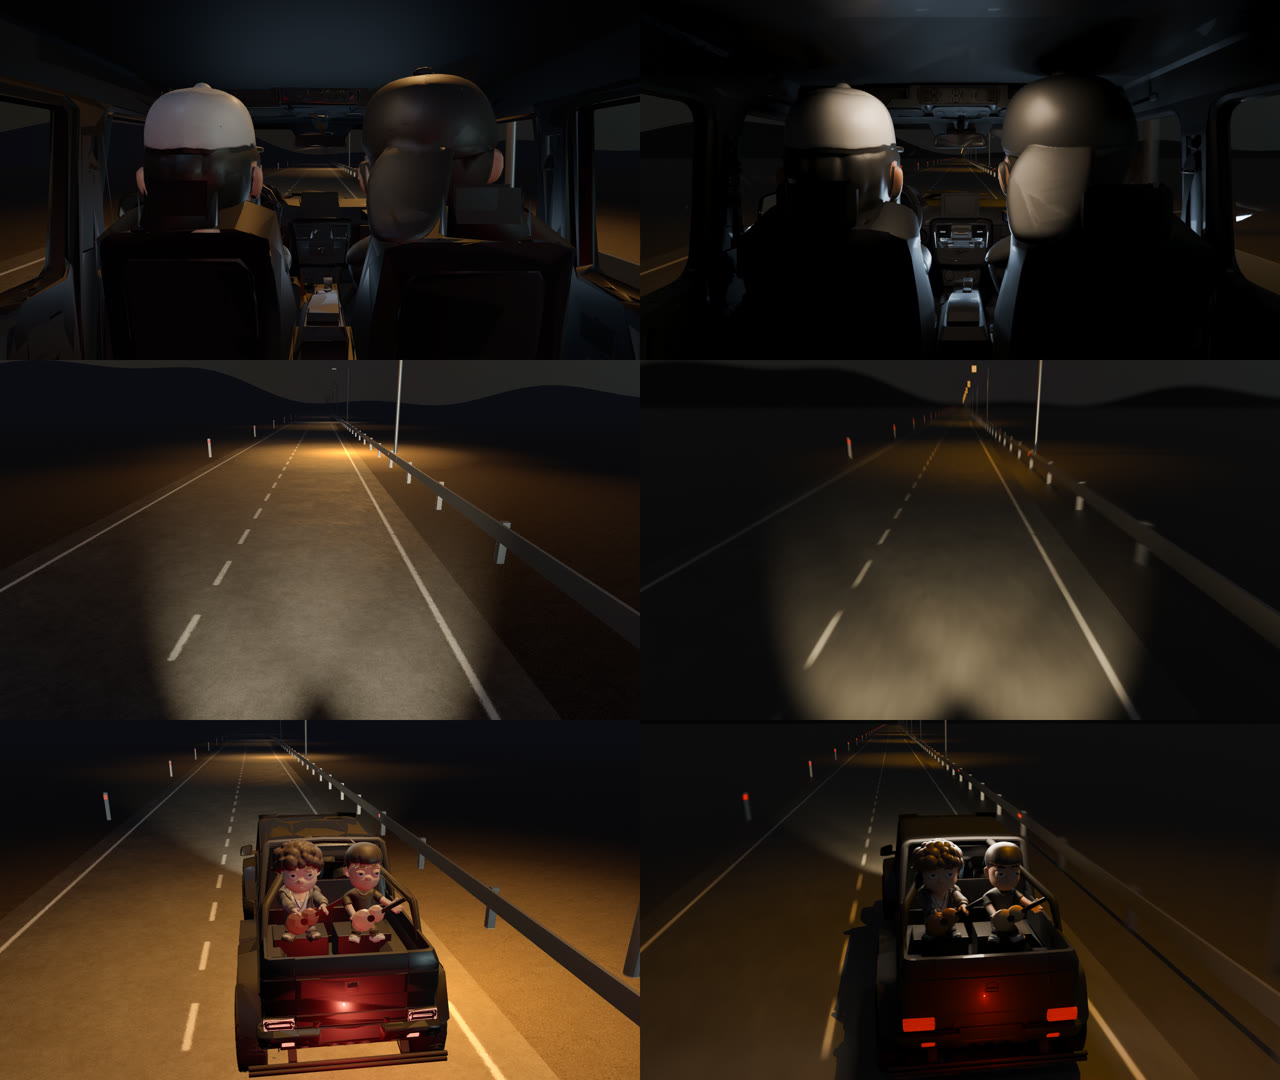
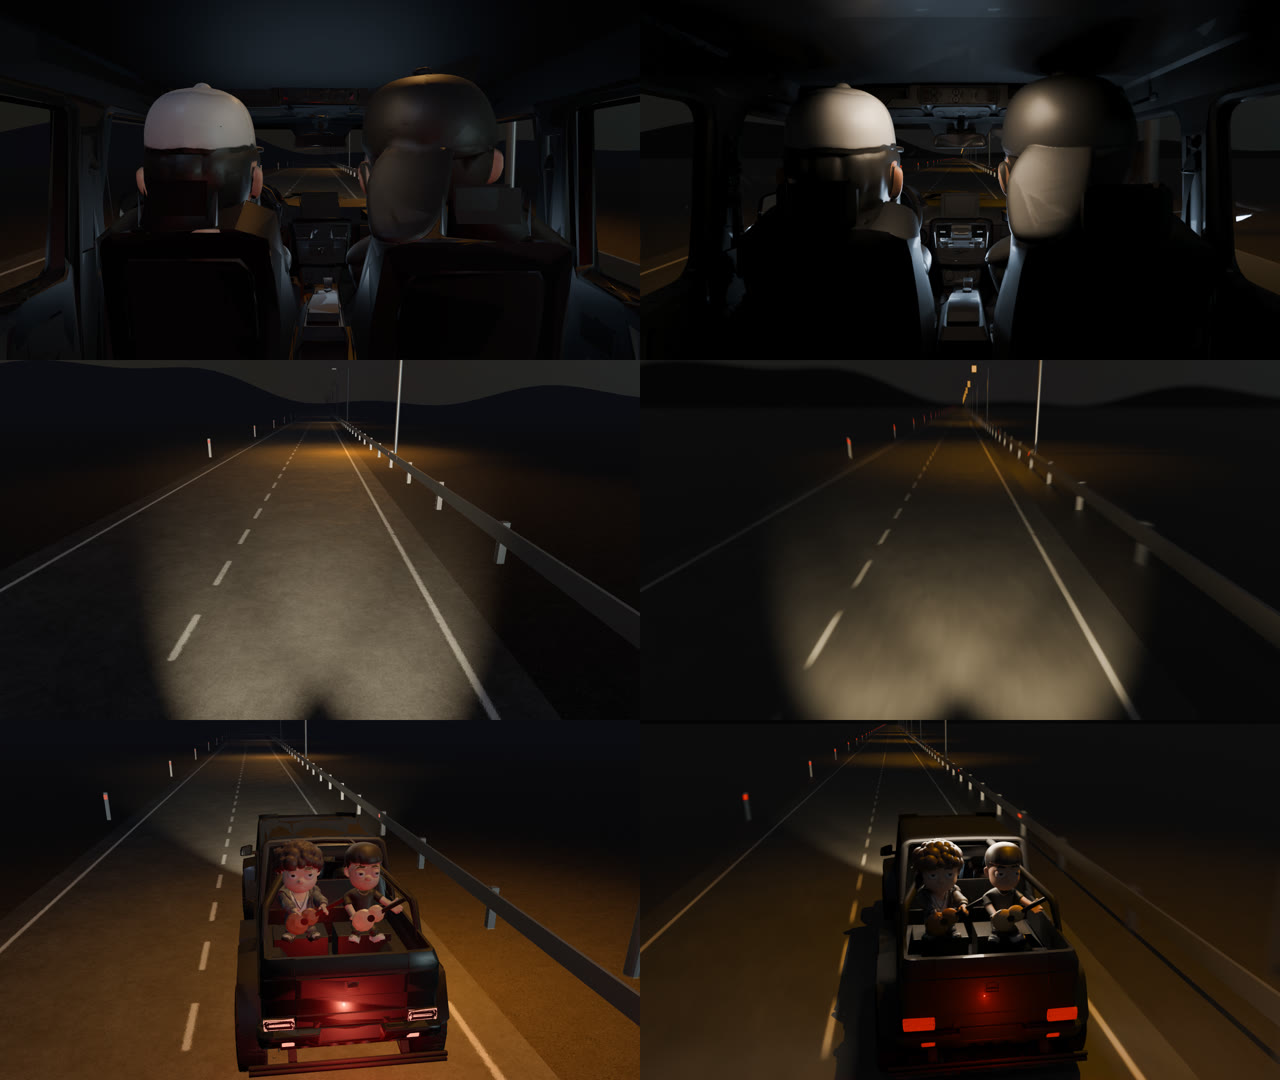
feat(escenas): puerto en vivo afinado; brief de calcas y guantera en el handoff
Postes a 30 (no 90) y luz de caja a 0.4: SSIM f0 0.441, f96 0.858,
f191 0.745, los tres arriba de la ronda 1. El arreglo del triángulo de la
guantera queda escrito pero sin render. El brief de las calcas va literal
en handoff-ronda2-resto.md.

Claude-Session: https://claude.ai/code/session_01JDrAz9gQxZCKuFdz2T7UmK

diff --git a/lab/vivo/index.html b/lab/vivo/index.html
@@ -80,8 +80,9 @@ function charcoTex() {
   r.addColorStop(0, "rgba(255,255,255,1)"); r.addColorStop(0.45, "rgba(255,255,255,0.35)"); r.addColorStop(1, "rgba(255,255,255,0)");
   g.fillStyle = r; g.fillRect(0, 0, 128, 128); return new THREE.CanvasTexture(c);
 }
+const KP = Number(q.get("kp") || 30);  // escena.ts uses 90; 90 over-lights the road against Cycles f96/f191 (round 2)
 const matCharco = new THREE.MeshBasicMaterial({ map: charcoTex(), transparent: true, blending: THREE.AdditiveBlending, depthWrite: false, fog: true });
-matCharco.color.set(P.postes.color).multiplyScalar(P.postes.intensidad * 0.16);
+matCharco.color.set(P.postes.color).multiplyScalar(P.postes.intensidad * 0.16 * KP / 90);
 tramo.traverse(o => { if (o.isMesh && o.material.name === "lampara") o.material.emissiveIntensity = P.postes.encendidos ? 6 : 0; });
 for (let k = -2; k < 10; k++) {
   const t = k === 0 ? tramo : tramo.clone();
@@ -89,7 +90,7 @@ for (let k = -2; k < 10; k++) {
   const c = new THREE.Mesh(new THREE.PlaneGeometry(16, 16), matCharco);
   c.rotation.x = -Math.PI / 2; c.position.set(3.4, 0.03, -8); t.add(c);
   if (k === 0 || k === 1) {
-    const s = new THREE.SpotLight(P.postes.color, P.postes.intensidad * 90, 28, 1.1, 0.7, 1.4);
+    const s = new THREE.SpotLight(P.postes.color, P.postes.intensidad * KP, 28, 1.1, 0.7, 1.4);
     s.position.set(3.95, 8.7, -8); s.target.position.set(3.0, 0, -8); t.add(s, s.target);
   }
   mundo.add(t);
@@ -125,10 +126,10 @@ const luna = new THREE.DirectionalLight(P.luna.color, P.luna.intensidad * 3); lu
 // cab and bed lights of transicion.luces_interior as RectAreaLights: (pos, aim, w, h, Blender W, colour); intensity = W / area × KA,
 // KA tuned against Cycles f0 (?ka= overrides)
 RectAreaLightUniformsLib.init();
-const KA = Number(q.get("ka") || 0.02);
+const KA = Number(q.get("ka") || 0.02), KC = Number(q.get("kc") || 0.4);  // KC: the bed light only
 for (const [p, m, w, h, W, c] of [[[CX, 0.25, 2.12], [CX, 0.45, 1.3], 0.4, 0.2, 4, [1.0, 0.78, 0.55]],
   [[CX, 1.08, 1.45], [CX, 0.2, 1.8], 1.0, 0.08, 25, [0.55, 0.75, 1.0]], [[CX, -1.0, 2.6], [CX, -2.2, 1.2], 1.4, 0.2, 90, [1.0, 0.82, 0.6]]]) {
-  const l = new THREE.RectAreaLight(new THREE.Color(...c), W / (w * h) * KA, w, h);
+  const l = new THREE.RectAreaLight(new THREE.Color(...c), W / (w * h) * KA * (W === 90 ? KC : 1), w, h);
   l.position.set(...b2t(p)); l.lookAt(...b2t(m)); scene.add(l);
 }
 

diff --git a/docs/design/escenas/handoff-ronda2-resto.md b/docs/design/escenas/handoff-ronda2-resto.md
@@ -7,13 +7,36 @@ Round 2 of the prop stills is done for the four props the mothership asked to re
 caja2-a-esc2,caja2-b,caja2-b-esc2,guantera2-borde,guantera2-c`. Run `blender/pantalla_tablero.py` first; it writes the
 screen faces into `tmp/utileria/`.
 
-## Not started
-- **Stickers mixed (pick 3).** These are not on the re-render list. The work is a `calcas2` builder with A/B/C styles across
-  the four stickers and one faded or scuffed. The §2 rules still apply.
-- **Live port fixes.** None of them is started: glass, pole lights and puddles, the RectAreaLight energy match, the re-capture
-  with SSIM, the real-GPU fps and the heads retopo. Each is listed in `handoff-fase1-ronda2.md` › Live port fixes.
+## Next: stickers, a real design pass (mothership brief, verbatim, 03:40)
+`calcas2` exists: four styles, IG faded, YouTube scuffed, each sticker on the tailgate surface ray-cast at its own spot. The owner
+judged it not real enough. The brief:
+
+> The owner, 03:40, on the stickers: "we might need to dig more design on the stickers so they stand out as real stickies". Do a real design pass on them, references first, before more renders.
+> - Reference what makes a real sticker read as one: die-cut white vinyl border, a gloss or satin sheen that catches the light, slightly lifted or curled corners, overlap when several are stacked, wear (scuffs, sun fade, a torn edge), and the slight raised edge on the surface. Look at real band and merch stickers, skate/streetwear sticker bombs, and Mexican troca culture: calcomanías on pickups and tailgates ("Puro Veracruz", ranch and sierreño stickers, holographic and chrome vinyl). Use our library first, then real photos, traced in references.md.
+> - Design: each sticker is its own piece of illustration and lettering with a different shape and finish (die-cut, vinyl, holo, matte paper, a classic oval bumper sticker), with the §2 brand rules kept (official glyph unaltered and upright, away from the peel).
+> - Material: a separate shader layer per sticker (white border, clearcoat, a normal map for the edge, a curl on one corner), so they stand off the paint in the scene-2 camera.
+> Show 2 directions as stills (close-up plus the scene-2 camera), then stop for the owner. If you reach 30% context first, put this brief verbatim in your handoff.
+
+Starting points: the library row `blender/lab/kiln-utility-box/NOTES.md` (decal quads ~0.6 mm off the paint, an atlas) and
+`web/designer-fichas/ayzz.md` (placement at angles). The scene-2 camera is `VISTA_ESC2` in `utileria.py`. Draw the sticker art
+as images with alpha die-cut shapes, the way `blender/placa_veracruz.py` draws the plate, not with Blender text.
+
+## Live port: started, not matched yet
+Done in `lab/vivo/index.html`: the glass override, the tramo cloned with pole SpotLights and additive puddles (from
+`src/scripts/escena.ts`), and the cab and bed RectAreaLights (`?ka=` scales them, `?kc=` the bed light only, `?kp=` the poles).
+SSIM against Cycles (gray, 1280×720), round 1 → round 2 at ka 0.02 with the poles at 90: f0 0.252 → 0.425, f96 0.857 → 0.799,
+f191 0.670 → 0.625: the poles over-lit the road and the bed light washed the bed. Tuned (now the defaults: ka 0.02, kp 30,
+kc 0.4): **f0 0.441, f96 0.858, f191 0.745**, all three above round 1; side-by-side in `docs/design/escenas/vivo/lado-a-lado.jpg`
+(live left, Cycles right). revisar `--ref` also flags a 1–2 % scale mismatch (lens/fov) and dE 2.4–3.6. Still open: the real-GPU fps
+and the heads retopo.
 
 ## Known limits of round 2
+- **Glovebox triangle: fix written, not rendered.** The owner saw "a weird triangle" (03:30). It is not the door's side walls:
+  front-skin-only on the door (`piel`) left it in place. Taking only whole faces shrank the cut to a 5 cm slit. Current
+  hypothesis, in `cortar_guantera()` but never rendered: a dash face centred outside the box spans the opening, so the dash now
+  also loses every face with a corner in the box (`roza`). The run for it never started, because its wait loop
+  `until ! pgrep -f "blender.exe -b"` matched its own command line. Next: run `guantera2-borde,guantera2-c` and check that the
+  larger hole is still covered by the inner box. The current `guantera2-c.jpg` still shows the triangle.
 - **Glovebox junk: fixed (03:18).** The cause was the pivot. It was taken from the lowest verts, which are the back of the
   0.2 m-deep cut (y 1.3465). It now sits on the front skin at `GUANTERA.y` (1.234). One side wall of the shell sticks up beside the
   door; it is kept, because bin-style gloveboxes have walls.
